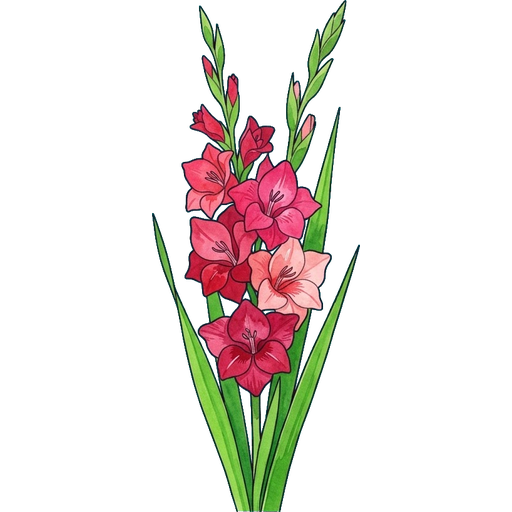
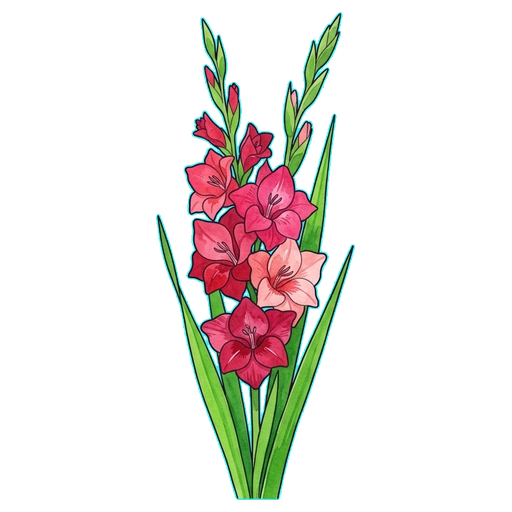
Fix: Gladiolus PLANT_VARIANTS wired correctly (name field, src:null default, Light Pink + Yellow as secondary swatches); re-cropped PNGs tighter margins

Changed region(s): [[0.2812, 0.0, 0.7188, 1.0]]

diff --git a/app/src/hooks/useGardenState.js b/app/src/hooks/useGardenState.js
@@ -186,6 +186,11 @@ export const GATE_VARIANTS = {
   'decor_gate-wood-red_XL_CA-US-FR-GB-AU':      GATE_VARIANT_LIST,
   'decor_gate-wood-blue_XL_CA-US-FR-GB-AU':     GATE_VARIANT_LIST,
   'decor_gate-wood-sage_XL_CA-US-FR-GB-AU':     GATE_VARIANT_LIST,
+  'bulb-summer_gladiolus_L_CA-US-FR-GB-AU': [
+    { label: 'Reddish Pink', name: 'Gladiolus',            colour: '#D43060', src: null },
+    { label: 'Light Pink',   name: 'Gladiolus (Light Pink)', colour: '#F5C0D0', src: '/stickers/bulb-summer_gladiolus_light-pink_L_CA-US-FR-GB-AU.png' },
+    { label: 'Yellow',       name: 'Gladiolus (Yellow)',    colour: '#FFD700', src: '/stickers/bulb-summer_gladiolus_yellow_L_CA-US-FR-GB-AU.png' },
+  ],
 }
 
 
